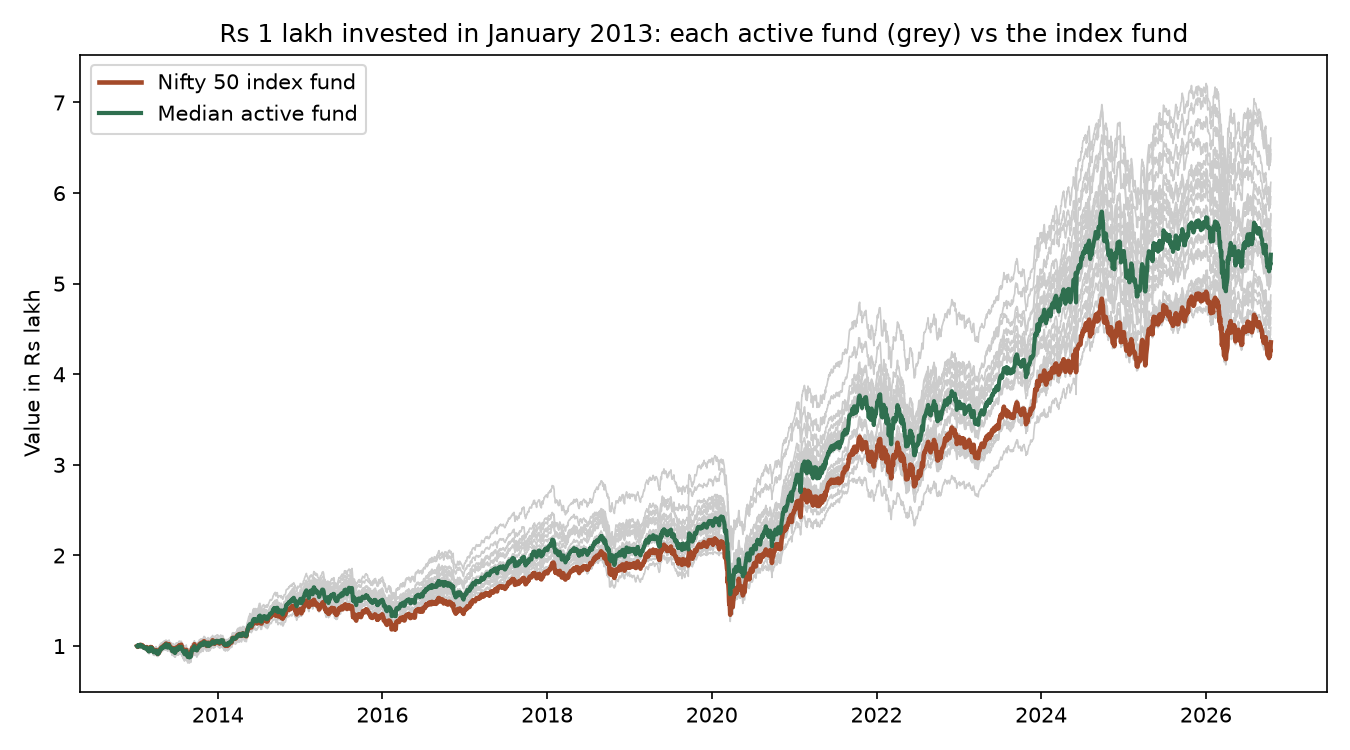
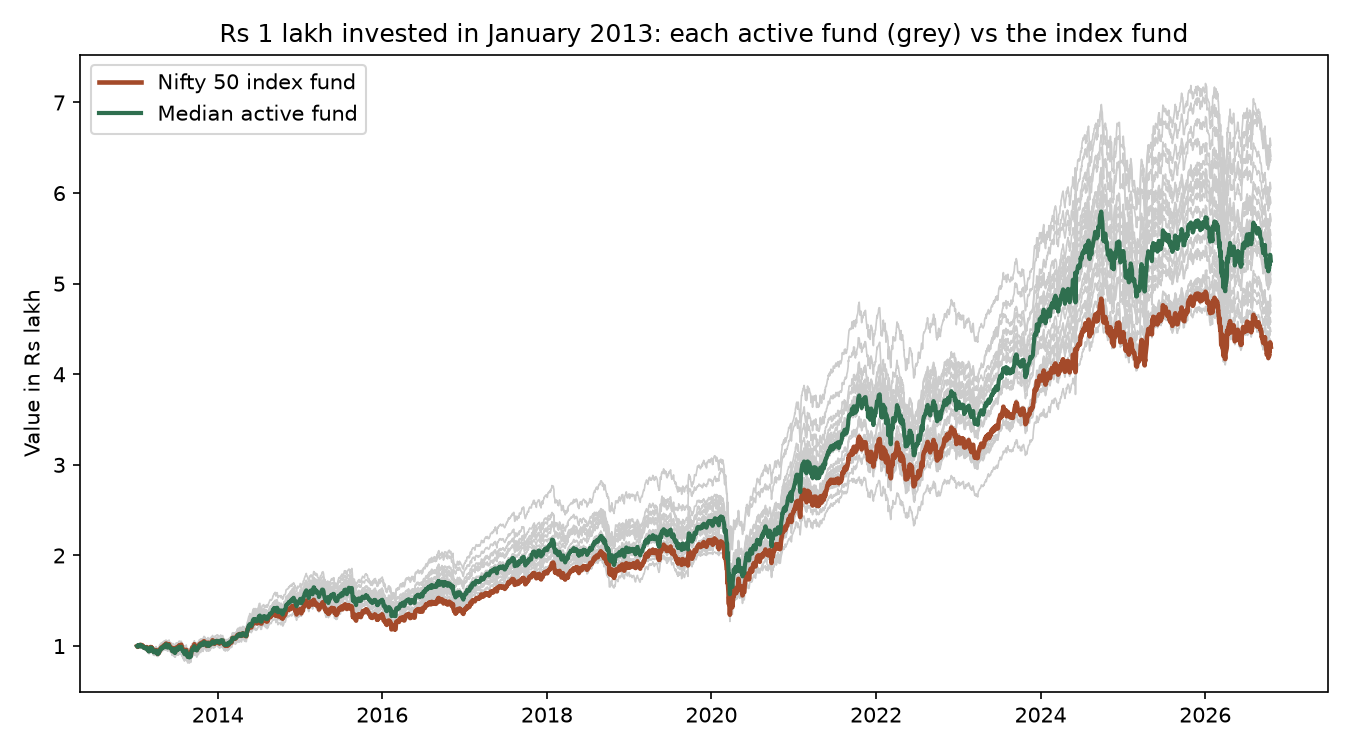
Data refresh: NAVs to 2026-10-20

Changed region(s): [[0.5911, 0.1227, 0.9333, 0.644], [0.4978, 0.6747, 0.5911, 0.7973], [0.8711, 0.9507, 0.9022, 0.9813]]

diff --git a/README.md b/README.md
@@ -5,7 +5,7 @@
 **Short answer:** Over 2013–2026, yes: 19 of 20 surviving active large-cap funds beat the UTI Nifty 50 Index Fund. But it is **streaky**, and the full-period number flatters active funds because of **survivorship bias**. Active funds won almost every 3-year window up to 2018, then most of them *lost* to the index from 2019 to 2021, and they have been winning again since 2024.
 
 <!-- latest -->
-**Latest data: 16 Oct 2026.** Over 13.8 years, the Nifty 50 index fund returned 11.27% a year; 19 of 20 surviving active funds beat it. Right now, 100% of active funds are ahead of the index over the past 3 years.
+**Latest data: 19 Oct 2026.** Over 13.8 years, the Nifty 50 index fund returned 11.18% a year; 19 of 20 surviving active funds beat it. Right now, 100% of active funds are ahead of the index over the past 3 years.
 <!-- /latest -->
 
 ## Data
